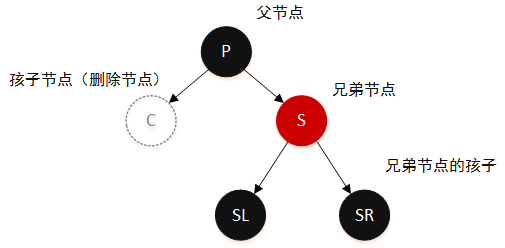
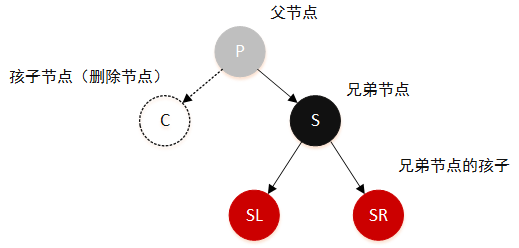
Post black_red_tree_summary

diff --git a/css/kun-blog.min.css b/css/kun-blog.min.css
@@ -1,1 +1,1 @@
-body{font-family:-apple-system,"Helvetica Neue",Arial,"PingFang SC","Hiragino Sans GB",STHeiti,"Microsoft YaHei","Microsoft JhengHei","Source Han Sans SC","Noto Sans CJK SC","Source Han Sans CN","Noto Sans SC","Source Han Sans TC","Noto Sans CJK TC","WenQuanYi Micro Hei",SimSun,sans-serif;line-height:1.7;font-size:16px;color:#404040;overflow-x:hidden}p{margin:15px 0}h1,h2,h3,h4,h5,h6{font-family:-apple-system,"Helvetica Neue",Arial,"PingFang SC","Hiragino Sans GB",STHeiti,"Microsoft YaHei","Microsoft JhengHei","Source Han Sans SC","Noto Sans CJK SC","Source Han Sans CN","Noto Sans SC","Source Han Sans TC","Noto Sans CJK TC","WenQuanYi Micro Hei",SimSun,sans-serif;line-height:1.7;line-height:1.1;font-weight:700}h3{font-size:21px}h4{font-size:18px}a{color:#404040}a:focus,a:hover{color:#0085a1}a img:focus,a img:hover{cursor:zoom-in}article{overflow-x:hidden}blockquote{color:grey;font-style:italic;font-size:.95em;margin:20px 0 20px}blockquote p{margin:0}small.img-hint{display:block;margin-top:-20px;text-align:center}br+small.img-hint{margin-top:-40px}img.shadow{box-shadow:rgba(0,0,0,.258824) 0 2px 5px 0}select{-webkit-appearance:none;margin-top:15px;color:#337ab7;border-color:#337ab7;padding:0 .4em;background:#fff}select.sel-lang{min-height:28px;font-size:14px}.table td,.table th{border:1px solid #eee!important}hr.small{max-width:100px;margin:15px auto;border-width:4px;border-color:#fff}.table-responsive,pre{-webkit-overflow-scrolling:touch}pre code{display:block;width:auto;white-space:pre;word-wrap:normal}.postlist-container{margin-bottom:15px}.post-container a{color:#337ab7}.post-container a:focus,.post-container a:hover{color:#0085a1}.post-container h1,.post-container h2,.post-container h3,.post-container h4,.post-container h5,.post-container h6{margin:30px 0 10px}.post-container h5{font-size:19px;font-weight:600;color:gray}.post-container h5+p{margin-top:5px}.post-container h6{font-size:16px;font-weight:600;color:gray}.post-container h6+p{margin-top:5px}@media screen and (max-width:768px){.post-container ol,.post-container ul{padding-left:30px}}@media screen and (max-width:500px){.post-container ol,.post-container ul{padding-left:20px}}.post-container ol ol,.post-container ol ul,.post-container ul ol,.post-container ul ul{margin-bottom:5px}.post-container li p{margin:0;margin-bottom:5px}.post-container li h1,.post-container li h2,.post-container li h3,.post-container li h4,.post-container li h5,.post-container li h6{line-height:2;margin-top:20px}.post-container .pager li{width:48%}.post-container .pager li.next{float:right}.post-container .pager li.previous{float:left}.post-container .pager li>a{width:100%}.post-container .pager li>a>span{color:grey;font-weight:400;letter-spacing:.5px}.post-container img{display:block;max-width:100%;height:auto;margin:1.5em auto 1.6em auto}@media (min-width:1200px){.post-container,.sidebar-container{padding-right:5%}}@media (min-width:768px){.post-container{padding-right:5%}}.sidebar-container{color:#bfbfbf;font-size:14px}.sidebar-container a{color:#bfbfbf!important}.sidebar-container a:active,.sidebar-container a:hover{color:#0085a1!important}.sidebar-intro{margin-top:30px}.sidebar-intro .tags a{border-color:#bfbfbf}.sidebar-intro .tags a:active,.sidebar-intro .tags a:hover{border-color:#0085a1!important}.sidebar-intro .short-about{margin-top:0;margin-bottom:20px}.sidebar-intro .short-about img{margin-top:20px;margin-left:50px;border-radius:80px;height:120px;width:120px}.sidebar-catalog .catalog-icon{width:16px;height:16px;display:inline-block;vertical-align:middle}.sidebar-catalog .catalog-title{color:#a3a3a3;padding-bottom:1em}.sidebar-catalog{padding:0;display:block;overflow:auto;height:100%;padding-bottom:40px;width:200px}.sidebar-catalog.fixed{position:fixed;top:-21px}.sidebar-catalog .catalog-body{position:relative;list-style:none;height:auto;overflow:hidden;padding-left:0;padding-right:5px;text-indent:0}.sidebar-catalog .catalog-body li{position:relative;list-style:none}.sidebar-catalog .catalog-body li a{padding-left:10px;max-width:180px;vertical-align:middle;height:30px;line-height:30px;overflow:hidden;text-decoration:none;white-space:nowrap;text-overflow:ellipsis}.sidebar-catalog .catalog-body .h1_nav,.sidebar-catalog .catalog-body .h2_nav{margin-left:0;font-size:14px;font-weight:700}.sidebar-catalog .catalog-body .h3_nav{margin-left:10px;font-size:12px;font-weight:700}.sidebar-catalog .catalog-body .h4_nav,.sidebar-catalog .catalog-body .h5_nav,.sidebar-catalog .catalog-body .h6_nav{margin-left:20px;font-size:12px}.sidebar-catalog .catalog-body .h4_nav a,.sidebar-catalog .catalog-body .h5_nav a,.sidebar-catalog .catalog-body .h6_nav a{max-width:170px}.sidebar-catalog .catalog-body .active{border-radius:4px;background-color:#f5f5f5}.sidebar-catalog .catalog-body .active a{color:#0085a1!important}@media (max-width:1200px){.sidebar-catalog{display:none}}@media only screen and (max-width:767px){.navbar-default .navbar-collapse{position:absolute;right:0;border:none;background:#fff;box-shadow:0 5px 10px 2px rgba(0,0,0,.2);box-shadow:rgba(0,0,0,.117647) 0 1px 6px,rgba(0,0,0,.239216) 0 1px 4px;border-radius:2px;width:170px}}.navbar-custom{background:0 0;border:none;position:absolute;top:0;left:0;width:100%;z-index:3;font-family:-apple-system,"Helvetica Neue",Arial,"PingFang SC","Hiragino Sans GB",STHeiti,"Microsoft YaHei","Microsoft JhengHei","Source Han Sans SC","Noto Sans CJK SC","Source Han Sans CN","Noto Sans SC","Source Han Sans TC","Noto Sans CJK TC","WenQuanYi Micro Hei",SimSun,sans-serif;line-height:1.7}.navbar-custom .navbar-brand{font-weight:800;color:#fff;height:56px;line-height:25px}.navbar-custom .navbar-brand:hover{color:rgba(255,255,255,.8)}.navbar-custom .nav li a{text-transform:uppercase;font-size:12px;line-height:20px;font-weight:800;letter-spacing:1px}.navbar-custom .nav li a:active{background:rgba(0,0,0,.12)}@media only screen and (min-width:768px){.navbar-custom{background:0 0;border-bottom:1px solid transparent}.navbar-custom body{font-size:20px}.navbar-custom .navbar-brand{color:#fff;padding:20px;line-height:20px}.navbar-custom .navbar-brand:focus,.navbar-custom .navbar-brand:hover{color:rgba(255,255,255,.8)}.navbar-custom .nav li a{color:#fff;padding:20px}.navbar-custom .nav li a:focus,.navbar-custom .nav li a:hover{color:rgba(255,255,255,.8)}.navbar-custom .nav li a:active{background:0 0}}@media only screen and (min-width:1170px){.navbar-custom{-webkit-transition:background-color .3s;-moz-transition:background-color .3s;transition:background-color .3s;-webkit-transform:translate3d(0,0,0);-moz-transform:translate3d(0,0,0);-ms-transform:translate3d(0,0,0);-o-transform:translate3d(0,0,0);transform:translate3d(0,0,0);-webkit-backface-visibility:hidden;backface-visibility:hidden}.navbar-custom.is-fixed{position:fixed;top:-61px;background-color:rgba(255,255,255,.9);border-bottom:1px solid #f2f2f2;-webkit-transition:-webkit-transform .3s;-moz-transition:-moz-transform .3s;transition:transform .3s}.navbar-custom.is-fixed .navbar-brand{color:#404040}.navbar-custom.is-fixed .navbar-brand:focus,.navbar-custom.is-fixed .navbar-brand:hover{color:#0085a1}.navbar-custom.is-fixed .nav li a{color:#404040}.navbar-custom.is-fixed .nav li a:focus,.navbar-custom.is-fixed .nav li a:hover{color:#0085a1}.navbar-custom.is-visible{-webkit-transform:translate3d(0,100%,0);-moz-transform:translate3d(0,100%,0);-ms-transform:translate3d(0,100%,0);-o-transform:translate3d(0,100%,0);transform:translate3d(0,100%,0)}}.intro-header{background:no-repeat center center;background-color:grey;background-attachment:scroll;-webkit-background-size:cover;-moz-background-size:cover;background-size:cover;-o-background-size:cover;margin-bottom:0}@media only screen and (min-width:768px){.intro-header{margin-bottom:20px}}.intro-header .page-heading,.intro-header .post-heading,.intro-header .site-heading{padding:85px 0 55px;color:#fff}@media only screen and (min-width:768px){.intro-header .page-heading,.intro-header .post-heading,.intro-header .site-heading{padding:150px 0}}.intro-header .site-heading{padding:95px 0 70px}@media only screen and (min-width:768px){.intro-header .site-heading{padding:150px 0}}.intro-header .page-heading,.intro-header .site-heading{text-align:center}.intro-header .page-heading h1,.intro-header .site-heading h1{margin-top:0;font-size:50px}.intro-header .page-heading .subheading,.intro-header .site-heading .subheading{font-family:-apple-system,"Helvetica Neue",Arial,"PingFang SC","Hiragino Sans GB",STHeiti,"Microsoft YaHei","Microsoft JhengHei","Source Han Sans SC","Noto Sans CJK SC","Source Han Sans CN","Noto Sans SC","Source Han Sans TC","Noto Sans CJK TC","WenQuanYi Micro Hei",SimSun,sans-serif;line-height:1.7;font-size:20px;line-height:1.1;display:block;font-weight:300;margin:1px 0 0}.intro-header .post-heading h1{font-size:30px;margin-bottom:24px}.intro-header .post-heading .meta,.intro-header .post-heading .subheading{line-height:1.1;display:block}.intro-header .post-heading .subheading{font-family:-apple-system,"Helvetica Neue",Arial,"PingFang SC","Hiragino Sans GB",STHeiti,"Microsoft YaHei","Microsoft JhengHei","Source Han Sans SC","Noto Sans CJK SC","Source Han Sans CN","Noto Sans SC","Source Han Sans TC","Noto Sans CJK TC","WenQuanYi Micro Hei",SimSun,sans-serif;line-height:1.7;font-size:16px;line-height:1.4;font-weight:400;margin:10px 0 30px;margin-top:-5px}.intro-header .post-heading .meta{font-family:Lora,'Times New Roman',serif;font-style:italic;font-weight:300;font-size:18px}.intro-header .post-heading .meta a{color:#fff}@media only screen and (min-width:768px){.intro-header .page-heading h1,.intro-header .site-heading h1{font-size:80px}}@media only screen and (min-width:768px){.intro-header .post-heading h1{font-size:55px}.intro-header .post-heading .subheading{font-size:30px}.intro-header .post-heading .meta{font-size:20px}}.post-preview>a{color:#404040}.post-preview>a:focus,.post-preview>a:hover{text-decoration:none;color:#0085a1}.post-preview>a>.post-title{font-size:21px;line-height:1.3;margin-top:30px;margin-bottom:8px}.post-preview>a>.post-subtitle{font-size:15px;line-height:1.3;margin:0;font-weight:300;margin-bottom:10px}.post-preview>.post-meta{font-family:Lora,'Times New Roman',serif;color:grey;font-size:16px;font-style:italic;margin-top:0}.post-preview>.post-meta>a{text-decoration:none;color:#404040}.post-preview>.post-meta>a:focus,.post-preview>.post-meta>a:hover{color:#0085a1;text-decoration:underline}@media only screen and (min-width:768px){.post-preview>a>.post-title{font-size:26px;line-height:1.3;margin-bottom:10px}.post-preview>a>.post-subtitle{font-size:16px}.post-preview .post-meta{font-size:18px}}.post-content-preview{font-size:13px;color:#a3a3a3}.post-content-preview:hover{color:#0085a1}@media only screen and (min-width:768px){.post-content-preview{font-size:14px}}.section-heading{font-size:36px;margin-top:60px;font-weight:700}.caption{text-align:center;font-size:14px;padding:10px;font-style:italic;margin:0;display:block;border-bottom-right-radius:5px;border-bottom-left-radius:5px}footer{font-size:20px;padding:50px 0 65px}footer .sns-links-container{text-align:center}footer .list-inline{margin:0;padding:0}footer .copyright{font-size:14px;text-align:center;margin-bottom:0}footer .copyright a{color:#337ab7}footer .copyright a:focus,footer .copyright a:hover{color:#0085a1}.floating-label-form-group{font-size:14px;position:relative;margin-bottom:0;padding-bottom:.5em;border-bottom:1px solid #eee}.floating-label-form-group input,.floating-label-form-group textarea{z-index:1;position:relative;padding-right:0;padding-left:0;border:none;border-radius:0;font-size:1.5em;background:0 0;box-shadow:none!important;resize:none}.floating-label-form-group label{display:block;z-index:0;position:relative;top:2em;margin:0;font-size:.85em;line-height:1.764705882em;vertical-align:middle;vertical-align:baseline;opacity:0;-webkit-transition:top .3s ease,opacity .3s ease;-moz-transition:top .3s ease,opacity .3s ease;-ms-transition:top .3s ease,opacity .3s ease;transition:top .3s ease,opacity .3s ease}.floating-label-form-group::not(:first-child){padding-left:14px;border-left:1px solid #eee}.floating-label-form-group-with-value label{top:0;opacity:1}.floating-label-form-group-with-focus label{color:#0085a1}form .row:first-child .floating-label-form-group{border-top:1px solid #eee}.btn{font-family:-apple-system,"Helvetica Neue",Arial,"PingFang SC","Hiragino Sans GB",STHeiti,"Microsoft YaHei","Microsoft JhengHei","Source Han Sans SC","Noto Sans CJK SC","Source Han Sans CN","Noto Sans SC","Source Han Sans TC","Noto Sans CJK TC","WenQuanYi Micro Hei",SimSun,sans-serif;line-height:1.7;text-transform:uppercase;font-size:14px;font-weight:800;letter-spacing:1px;border-radius:0;padding:15px 25px}.btn-lg{font-size:16px;padding:25px 35px}.btn-default:focus,.btn-default:hover{background-color:#0085a1;border:1px solid #0085a1;color:#fff}.pager{margin:20px 0 0!important;padding:0!important}.pager li>a,.pager li>span{font-family:-apple-system,"Helvetica Neue",Arial,"PingFang SC","Hiragino Sans GB",STHeiti,"Microsoft YaHei","Microsoft JhengHei","Source Han Sans SC","Noto Sans CJK SC","Source Han Sans CN","Noto Sans SC","Source Han Sans TC","Noto Sans CJK TC","WenQuanYi Micro Hei",SimSun,sans-serif;line-height:1.7;text-transform:uppercase;font-size:13px;font-weight:800;letter-spacing:1px;padding:10px;background-color:#fff;border-radius:0}@media only screen and (min-width:768px){.pager li>a,.pager li>span{font-size:14px;padding:15px 25px}}.pager li>a{color:#404040}.pager li>a:focus,.pager li>a:hover{color:#fff;background-color:#0085a1;border:1px solid #0085a1}.pager li>a:focus>span,.pager li>a:hover>span{color:#fff}.pager .disabled>a,.pager .disabled>a:focus,.pager .disabled>a:hover,.pager .disabled>span{color:grey;background-color:#404040;cursor:not-allowed}::-moz-selection{color:#fff;text-shadow:none;background:#0085a1}::selection{color:#fff;text-shadow:none;background:#0085a1}img::selection{color:#fff;background:0 0}img::-moz-selection{color:#fff;background:0 0}.tags{margin-bottom:-5px}.tags .tag,.tags a{display:inline-block;border:1px solid rgba(255,255,255,.8);border-radius:999em;padding:0 10px;color:#fff;line-height:24px;font-size:12px;text-decoration:none;margin:0 1px;margin-bottom:6px}.tags .tag:active,.tags .tag:hover,.tags a:active,.tags a:hover{color:#fff;background-color:rgba(255,255,255,.4);text-decoration:none}@media only screen and (min-width:768px){.tags .tag,.tags a{margin-right:5px}}.t:first-child{margin-top:0}.listing-seperator{color:#0085a1;font-size:21px!important}.listing-seperator::before{margin-right:5px}@media only screen and (min-width:768px){.listing-seperator{font-size:20px!important;line-height:2!important}}.one-tag-list .tag-text{font-weight:200;font-family:-apple-system,"Helvetica Neue",Arial,"PingFang SC","Hiragino Sans GB",STHeiti,"Microsoft YaHei","Microsoft JhengHei","Source Han Sans SC","Noto Sans CJK SC","Source Han Sans CN","Noto Sans SC","Source Han Sans TC","Noto Sans CJK TC","WenQuanYi Micro Hei",SimSun,sans-serif;line-height:1.7}.one-tag-list .post-preview{position:relative}.one-tag-list .post-preview>a .post-title{font-size:16px;font-weight:500;margin-top:20px}.one-tag-list .post-preview>a .post-subtitle{font-size:12px}.one-tag-list .post-preview>.post-meta{position:absolute;right:5px;bottom:0;margin:0;font-size:12px;line-height:12px}@media only screen and (min-width:768px){.one-tag-list .post-preview{margin-left:20px}.one-tag-list .post-preview>a>.post-title{font-size:18px;line-height:1.3}.one-tag-list .post-preview>a>.post-subtitle{font-size:14px}.one-tag-list .post-preview .post-meta{font-size:18px}}.navbar-default .navbar-toggle:focus,.navbar-default .navbar-toggle:hover{background-color:inherit}.navbar-default .navbar-toggle:active{background-color:rgba(255,255,255,.25)}.navbar-default .navbar-toggle{border-color:transparent;padding:19px 16px;margin-top:2px;margin-right:2px;margin-bottom:2px;border-radius:50%}.navbar-default .navbar-toggle .icon-bar{width:18px;border-radius:0;background-color:#fff}.navbar-default .navbar-toggle .icon-bar+.icon-bar{margin-top:3px}.page-fullscreen .intro-header{position:fixed;left:0;top:0;width:100%;height:100%}.page-fullscreen footer{position:absolute;width:100%;bottom:0;padding-bottom:20px;opacity:.6;color:#fff}.page-fullscreen footer .copyright{color:#fff}.page-fullscreen footer .copyright a{color:#fff}.page-fullscreen footer .copyright a:hover{color:#ddd}.cc-license-container img{margin:1.5em 0 .2em 0}
+body{font-family:-apple-system,"Helvetica Neue",Arial,"PingFang SC","Hiragino Sans GB",STHeiti,"Microsoft YaHei","Microsoft JhengHei","Source Han Sans SC","Noto Sans CJK SC","Source Han Sans CN","Noto Sans SC","Source Han Sans TC","Noto Sans CJK TC","WenQuanYi Micro Hei",SimSun,sans-serif;line-height:1.7;font-size:16px;color:#404040;overflow-x:hidden}p{margin:15px 0}h1,h2,h3,h4,h5,h6{font-family:-apple-system,"Helvetica Neue",Arial,"PingFang SC","Hiragino Sans GB",STHeiti,"Microsoft YaHei","Microsoft JhengHei","Source Han Sans SC","Noto Sans CJK SC","Source Han Sans CN","Noto Sans SC","Source Han Sans TC","Noto Sans CJK TC","WenQuanYi Micro Hei",SimSun,sans-serif;line-height:1.7;line-height:1.1;font-weight:700}h3{font-size:21px}h4{font-size:18px}a{color:#404040}a:focus,a:hover{color:#0085a1}a img:focus,a img:hover{cursor:zoom-in}article{overflow-x:hidden}blockquote{color:grey;font-style:italic;font-size:.95em;margin:20px 0 20px}blockquote p{margin:0}small.img-hint{display:block;margin-top:-20px;text-align:center}br+small.img-hint{margin-top:-40px}img.shadow{box-shadow:rgba(0,0,0,.258824) 0 2px 5px 0}select{-webkit-appearance:none;margin-top:15px;color:#337ab7;border-color:#337ab7;padding:0 .4em;background:#fff}select.sel-lang{min-height:28px;font-size:14px}.table td,.table th{border:1px solid #eee!important}hr.small{max-width:100px;margin:15px auto;border-width:4px;border-color:#fff}.table-responsive,pre{-webkit-overflow-scrolling:touch}code{color:#404040;background-color:#f2f2f2}pre code{display:block;width:auto;white-space:pre;word-wrap:normal}.postlist-container{margin-bottom:15px}.post-container a{color:#337ab7}.post-container a:focus,.post-container a:hover{color:#0085a1}.post-container h1,.post-container h2,.post-container h3,.post-container h4,.post-container h5,.post-container h6{margin:30px 0 10px}.post-container h5{font-size:19px;font-weight:600;color:gray}.post-container h5+p{margin-top:5px}.post-container h6{font-size:16px;font-weight:600;color:gray}.post-container h6+p{margin-top:5px}@media screen and (max-width:768px){.post-container ol,.post-container ul{padding-left:30px}}@media screen and (max-width:500px){.post-container ol,.post-container ul{padding-left:20px}}.post-container ol ol,.post-container ol ul,.post-container ul ol,.post-container ul ul{margin-bottom:5px}.post-container li p{margin:0;margin-bottom:5px}.post-container li h1,.post-container li h2,.post-container li h3,.post-container li h4,.post-container li h5,.post-container li h6{line-height:2;margin-top:20px}.post-container .pager li{width:48%}.post-container .pager li.next{float:right}.post-container .pager li.previous{float:left}.post-container .pager li>a{width:100%}.post-container .pager li>a>span{color:grey;font-weight:400;letter-spacing:.5px}.post-container img{display:block;max-width:100%;height:auto;margin:1.5em auto 1.6em auto}@media (min-width:1200px){.post-container,.sidebar-container{padding-right:5%}}@media (min-width:768px){.post-container{padding-right:5%}}.sidebar-container{color:#bfbfbf;font-size:14px}.sidebar-container a{color:#bfbfbf!important}.sidebar-container a:active,.sidebar-container a:hover{color:#0085a1!important}.sidebar-intro{margin-top:30px}.sidebar-intro .tags a{border-color:#bfbfbf}.sidebar-intro .tags a:active,.sidebar-intro .tags a:hover{border-color:#0085a1!important}.sidebar-intro .short-about{margin-top:0;margin-bottom:20px}.sidebar-intro .short-about img{margin-top:20px;margin-left:50px;border-radius:80px;height:120px;width:120px}.sidebar-catalog .catalog-icon{width:16px;height:16px;display:inline-block;vertical-align:middle}.sidebar-catalog .catalog-title{color:#a3a3a3;padding-bottom:1em}.sidebar-catalog{padding:0;display:block;overflow:auto;height:100%;padding-bottom:40px;width:200px}.sidebar-catalog.fixed{position:fixed;top:-21px}.sidebar-catalog .catalog-body{position:relative;list-style:none;height:auto;overflow:hidden;padding-left:0;padding-right:5px;text-indent:0}.sidebar-catalog .catalog-body li{position:relative;list-style:none}.sidebar-catalog .catalog-body li a{padding-left:10px;max-width:180px;vertical-align:middle;height:30px;line-height:30px;overflow:hidden;text-decoration:none;white-space:nowrap;text-overflow:ellipsis}.sidebar-catalog .catalog-body .h1_nav,.sidebar-catalog .catalog-body .h2_nav{margin-left:0;font-size:14px;font-weight:700}.sidebar-catalog .catalog-body .h3_nav{margin-left:10px;font-size:12px;font-weight:700}.sidebar-catalog .catalog-body .h4_nav,.sidebar-catalog .catalog-body .h5_nav,.sidebar-catalog .catalog-body .h6_nav{margin-left:20px;font-size:12px}.sidebar-catalog .catalog-body .h4_nav a,.sidebar-catalog .catalog-body .h5_nav a,.sidebar-catalog .catalog-body .h6_nav a{max-width:170px}.sidebar-catalog .catalog-body .active{border-radius:4px;background-color:#f5f5f5}.sidebar-catalog .catalog-body .active a{color:#0085a1!important}@media (max-width:1200px){.sidebar-catalog{display:none}}@media only screen and (max-width:767px){.navbar-default .navbar-collapse{position:absolute;right:0;border:none;background:#fff;box-shadow:0 5px 10px 2px rgba(0,0,0,.2);box-shadow:rgba(0,0,0,.117647) 0 1px 6px,rgba(0,0,0,.239216) 0 1px 4px;border-radius:2px;width:170px}}.navbar-custom{background:0 0;border:none;position:absolute;top:0;left:0;width:100%;z-index:3;font-family:-apple-system,"Helvetica Neue",Arial,"PingFang SC","Hiragino Sans GB",STHeiti,"Microsoft YaHei","Microsoft JhengHei","Source Han Sans SC","Noto Sans CJK SC","Source Han Sans CN","Noto Sans SC","Source Han Sans TC","Noto Sans CJK TC","WenQuanYi Micro Hei",SimSun,sans-serif;line-height:1.7}.navbar-custom .navbar-brand{font-weight:800;color:#fff;height:56px;line-height:25px}.navbar-custom .navbar-brand:hover{color:rgba(255,255,255,.8)}.navbar-custom .nav li a{text-transform:uppercase;font-size:12px;line-height:20px;font-weight:800;letter-spacing:1px}.navbar-custom .nav li a:active{background:rgba(0,0,0,.12)}@media only screen and (min-width:768px){.navbar-custom{background:0 0;border-bottom:1px solid transparent}.navbar-custom body{font-size:20px}.navbar-custom .navbar-brand{color:#fff;padding:20px;line-height:20px}.navbar-custom .navbar-brand:focus,.navbar-custom .navbar-brand:hover{color:rgba(255,255,255,.8)}.navbar-custom .nav li a{color:#fff;padding:20px}.navbar-custom .nav li a:focus,.navbar-custom .nav li a:hover{color:rgba(255,255,255,.8)}.navbar-custom .nav li a:active{background:0 0}}@media only screen and (min-width:1170px){.navbar-custom{-webkit-transition:background-color .3s;-moz-transition:background-color .3s;transition:background-color .3s;-webkit-transform:translate3d(0,0,0);-moz-transform:translate3d(0,0,0);-ms-transform:translate3d(0,0,0);-o-transform:translate3d(0,0,0);transform:translate3d(0,0,0);-webkit-backface-visibility:hidden;backface-visibility:hidden}.navbar-custom.is-fixed{position:fixed;top:-61px;background-color:rgba(255,255,255,.9);border-bottom:1px solid #f2f2f2;-webkit-transition:-webkit-transform .3s;-moz-transition:-moz-transform .3s;transition:transform .3s}.navbar-custom.is-fixed .navbar-brand{color:#404040}.navbar-custom.is-fixed .navbar-brand:focus,.navbar-custom.is-fixed .navbar-brand:hover{color:#0085a1}.navbar-custom.is-fixed .nav li a{color:#404040}.navbar-custom.is-fixed .nav li a:focus,.navbar-custom.is-fixed .nav li a:hover{color:#0085a1}.navbar-custom.is-visible{-webkit-transform:translate3d(0,100%,0);-moz-transform:translate3d(0,100%,0);-ms-transform:translate3d(0,100%,0);-o-transform:translate3d(0,100%,0);transform:translate3d(0,100%,0)}}.intro-header{background:no-repeat center center;background-color:grey;background-attachment:scroll;-webkit-background-size:cover;-moz-background-size:cover;background-size:cover;-o-background-size:cover;margin-bottom:0}@media only screen and (min-width:768px){.intro-header{margin-bottom:20px}}.intro-header .page-heading,.intro-header .post-heading,.intro-header .site-heading{padding:85px 0 55px;color:#fff}@media only screen and (min-width:768px){.intro-header .page-heading,.intro-header .post-heading,.intro-header .site-heading{padding:150px 0}}.intro-header .site-heading{padding:95px 0 70px}@media only screen and (min-width:768px){.intro-header .site-heading{padding:150px 0}}.intro-header .page-heading,.intro-header .site-heading{text-align:center}.intro-header .page-heading h1,.intro-header .site-heading h1{margin-top:0;font-size:50px}.intro-header .page-heading .subheading,.intro-header .site-heading .subheading{font-family:-apple-system,"Helvetica Neue",Arial,"PingFang SC","Hiragino Sans GB",STHeiti,"Microsoft YaHei","Microsoft JhengHei","Source Han Sans SC","Noto Sans CJK SC","Source Han Sans CN","Noto Sans SC","Source Han Sans TC","Noto Sans CJK TC","WenQuanYi Micro Hei",SimSun,sans-serif;line-height:1.7;font-size:20px;line-height:1.1;display:block;font-weight:300;margin:1px 0 0}.intro-header .post-heading h1{font-size:30px;margin-bottom:24px}.intro-header .post-heading .meta,.intro-header .post-heading .subheading{line-height:1.1;display:block}.intro-header .post-heading .subheading{font-family:-apple-system,"Helvetica Neue",Arial,"PingFang SC","Hiragino Sans GB",STHeiti,"Microsoft YaHei","Microsoft JhengHei","Source Han Sans SC","Noto Sans CJK SC","Source Han Sans CN","Noto Sans SC","Source Han Sans TC","Noto Sans CJK TC","WenQuanYi Micro Hei",SimSun,sans-serif;line-height:1.7;font-size:16px;line-height:1.4;font-weight:400;margin:10px 0 30px;margin-top:-5px}.intro-header .post-heading .meta{font-family:Lora,'Times New Roman',serif;font-style:italic;font-weight:300;font-size:18px}.intro-header .post-heading .meta a{color:#fff}@media only screen and (min-width:768px){.intro-header .page-heading h1,.intro-header .site-heading h1{font-size:80px}}@media only screen and (min-width:768px){.intro-header .post-heading h1{font-size:55px}.intro-header .post-heading .subheading{font-size:30px}.intro-header .post-heading .meta{font-size:20px}}.post-preview>a{color:#404040}.post-preview>a:focus,.post-preview>a:hover{text-decoration:none;color:#0085a1}.post-preview>a>.post-title{font-size:21px;line-height:1.3;margin-top:30px;margin-bottom:8px}.post-preview>a>.post-subtitle{font-size:15px;line-height:1.3;margin:0;font-weight:300;margin-bottom:10px}.post-preview>.post-meta{font-family:Lora,'Times New Roman',serif;color:grey;font-size:16px;font-style:italic;margin-top:0}.post-preview>.post-meta>a{text-decoration:none;color:#404040}.post-preview>.post-meta>a:focus,.post-preview>.post-meta>a:hover{color:#0085a1;text-decoration:underline}@media only screen and (min-width:768px){.post-preview>a>.post-title{font-size:26px;line-height:1.3;margin-bottom:10px}.post-preview>a>.post-subtitle{font-size:16px}.post-preview .post-meta{font-size:18px}}.post-content-preview{font-size:13px;color:#a3a3a3}.post-content-preview:hover{color:#0085a1}@media only screen and (min-width:768px){.post-content-preview{font-size:14px}}.section-heading{font-size:36px;margin-top:60px;font-weight:700}.caption{text-align:center;font-size:14px;padding:10px;font-style:italic;margin:0;display:block;border-bottom-right-radius:5px;border-bottom-left-radius:5px}footer{font-size:20px;padding:50px 0 65px}footer .sns-links-container{text-align:center}footer .list-inline{margin:0;padding:0}footer .copyright{font-size:14px;text-align:center;margin-bottom:0}footer .copyright a{color:#337ab7}footer .copyright a:focus,footer .copyright a:hover{color:#0085a1}.floating-label-form-group{font-size:14px;position:relative;margin-bottom:0;padding-bottom:.5em;border-bottom:1px solid #eee}.floating-label-form-group input,.floating-label-form-group textarea{z-index:1;position:relative;padding-right:0;padding-left:0;border:none;border-radius:0;font-size:1.5em;background:0 0;box-shadow:none!important;resize:none}.floating-label-form-group label{display:block;z-index:0;position:relative;top:2em;margin:0;font-size:.85em;line-height:1.764705882em;vertical-align:middle;vertical-align:baseline;opacity:0;-webkit-transition:top .3s ease,opacity .3s ease;-moz-transition:top .3s ease,opacity .3s ease;-ms-transition:top .3s ease,opacity .3s ease;transition:top .3s ease,opacity .3s ease}.floating-label-form-group::not(:first-child){padding-left:14px;border-left:1px solid #eee}.floating-label-form-group-with-value label{top:0;opacity:1}.floating-label-form-group-with-focus label{color:#0085a1}form .row:first-child .floating-label-form-group{border-top:1px solid #eee}.btn{font-family:-apple-system,"Helvetica Neue",Arial,"PingFang SC","Hiragino Sans GB",STHeiti,"Microsoft YaHei","Microsoft JhengHei","Source Han Sans SC","Noto Sans CJK SC","Source Han Sans CN","Noto Sans SC","Source Han Sans TC","Noto Sans CJK TC","WenQuanYi Micro Hei",SimSun,sans-serif;line-height:1.7;text-transform:uppercase;font-size:14px;font-weight:800;letter-spacing:1px;border-radius:0;padding:15px 25px}.btn-lg{font-size:16px;padding:25px 35px}.btn-default:focus,.btn-default:hover{background-color:#0085a1;border:1px solid #0085a1;color:#fff}.pager{margin:20px 0 0!important;padding:0!important}.pager li>a,.pager li>span{font-family:-apple-system,"Helvetica Neue",Arial,"PingFang SC","Hiragino Sans GB",STHeiti,"Microsoft YaHei","Microsoft JhengHei","Source Han Sans SC","Noto Sans CJK SC","Source Han Sans CN","Noto Sans SC","Source Han Sans TC","Noto Sans CJK TC","WenQuanYi Micro Hei",SimSun,sans-serif;line-height:1.7;text-transform:uppercase;font-size:13px;font-weight:800;letter-spacing:1px;padding:10px;background-color:#fff;border-radius:0}@media only screen and (min-width:768px){.pager li>a,.pager li>span{font-size:14px;padding:15px 25px}}.pager li>a{color:#404040}.pager li>a:focus,.pager li>a:hover{color:#fff;background-color:#0085a1;border:1px solid #0085a1}.pager li>a:focus>span,.pager li>a:hover>span{color:#fff}.pager .disabled>a,.pager .disabled>a:focus,.pager .disabled>a:hover,.pager .disabled>span{color:grey;background-color:#404040;cursor:not-allowed}::-moz-selection{color:#fff;text-shadow:none;background:#0085a1}::selection{color:#fff;text-shadow:none;background:#0085a1}img::selection{color:#fff;background:0 0}img::-moz-selection{color:#fff;background:0 0}.tags{margin-bottom:-5px}.tags .tag,.tags a{display:inline-block;border:1px solid rgba(255,255,255,.8);border-radius:999em;padding:0 10px;color:#fff;line-height:24px;font-size:12px;text-decoration:none;margin:0 1px;margin-bottom:6px}.tags .tag:active,.tags .tag:hover,.tags a:active,.tags a:hover{color:#fff;background-color:rgba(255,255,255,.4);text-decoration:none}@media only screen and (min-width:768px){.tags .tag,.tags a{margin-right:5px}}.t:first-child{margin-top:0}.listing-seperator{color:#0085a1;font-size:21px!important}.listing-seperator::before{margin-right:5px}@media only screen and (min-width:768px){.listing-seperator{font-size:20px!important;line-height:2!important}}.one-tag-list .tag-text{font-weight:200;font-family:-apple-system,"Helvetica Neue",Arial,"PingFang SC","Hiragino Sans GB",STHeiti,"Microsoft YaHei","Microsoft JhengHei","Source Han Sans SC","Noto Sans CJK SC","Source Han Sans CN","Noto Sans SC","Source Han Sans TC","Noto Sans CJK TC","WenQuanYi Micro Hei",SimSun,sans-serif;line-height:1.7}.one-tag-list .post-preview{position:relative}.one-tag-list .post-preview>a .post-title{font-size:16px;font-weight:500;margin-top:20px}.one-tag-list .post-preview>a .post-subtitle{font-size:12px}.one-tag-list .post-preview>.post-meta{position:absolute;right:5px;bottom:0;margin:0;font-size:12px;line-height:12px}@media only screen and (min-width:768px){.one-tag-list .post-preview{margin-left:20px}.one-tag-list .post-preview>a>.post-title{font-size:18px;line-height:1.3}.one-tag-list .post-preview>a>.post-subtitle{font-size:14px}.one-tag-list .post-preview .post-meta{font-size:18px}}.navbar-default .navbar-toggle:focus,.navbar-default .navbar-toggle:hover{background-color:inherit}.navbar-default .navbar-toggle:active{background-color:rgba(255,255,255,.25)}.navbar-default .navbar-toggle{border-color:transparent;padding:19px 16px;margin-top:2px;margin-right:2px;margin-bottom:2px;border-radius:50%}.navbar-default .navbar-toggle .icon-bar{width:18px;border-radius:0;background-color:#fff}.navbar-default .navbar-toggle .icon-bar+.icon-bar{margin-top:3px}.page-fullscreen .intro-header{position:fixed;left:0;top:0;width:100%;height:100%}.page-fullscreen footer{position:absolute;width:100%;bottom:0;padding-bottom:20px;opacity:.6;color:#fff}.page-fullscreen footer .copyright{color:#fff}.page-fullscreen footer .copyright a{color:#fff}.page-fullscreen footer .copyright a:hover{color:#ddd}.cc-license-container img{margin:1.5em 0 .2em 0}

diff --git a/css/kun-blog.css b/css/kun-blog.css
@@ -113,6 +113,13 @@ pre,
     -webkit-overflow-scrolling: touch;
 }
 
+/* override bootstrap code format */
+code {
+    color: #404040;
+    background-color:#f2f2f2;
+}
+
+
 pre code {
     display: block;
     width: auto;

diff --git a/_posts/2021-07-30-black_red_tree_summary.md b/_posts/2021-07-30-black_red_tree_summary.md
@@ -1,4 +1,11 @@
-# 红黑树
+---
+layout: post
+title: 红黑树
+categories: study
+tags: [数据结构, 红黑树]
+subtitle: "标准模板库中的二叉搜索树"
+comment: true
+---
 
 ## 1. 红黑树的定义
 
@@ -336,15 +343,15 @@ Node<K, V>* BRTree<K, V>::insert_balance(Node<K, V>* pp, Node<K, V>* p, Node<K, 
 }
 ```
 
-#### 2.4.3 插入与AVL树对比
+#### 2.4.3 插入总结
 
-这里再将红黑树的插入与AVL树进行一下对比，加深一下印象，如果没有学习AVL树，可以先跳过这部分，并不会有任何影响。
+这里再将红黑树的插入与 AVL 树进行一下对比，加深一下印象，如果没有学习 AVL 树，可以先跳过这部分，并不会有任何影响。
 
-首先，在寻找插入位置时，两者逻辑并没有区别。只不过由于AVL树更为严格（树高差最大为1），所以总概率来看寻找插入位置应该更快。两者的主要区别在插入后如何平衡上，但平衡上也有相应的相通之处。
+首先，在寻找插入位置时，两者逻辑并没有区别。只不过由于 AVL 树更为严格（树高差最大为 1），所以总概率来看寻找插入位置应该更快。两者的主要区别在插入后如何平衡上，但平衡上也有相应的相通之处。
 
-在平衡判断上，两者都是因为树的平衡性质被打破导致。对于AVL树，就是插入位置导致子树间高度差增加了。而红黑树则是因为红色节点相连导致，因为这种情景出现的概率相比要小，所以需要旋转次数要更少。
+在平衡判断上，两者都是因为树的平衡性质被打破导致。对于 AVL 树，就是插入位置导致子树间高度差增加了。而红黑树则是因为红色节点相连导致，因为这种情景出现的概率相比要小，所以需要旋转次数要更少。
 
-在平衡情景上，AVL树也同样存在LL，LR，RL，RR四种旋转情景，目的也是为了将一个节点从一个子树移到另一边的子树。但红黑树因为多了颜色的属性，所以会增加变色的过程，同时还多出了一个只需要变色就能够实现平衡的情景。
+在平衡情景上，AVL 树也同样存在 LL，LR，RL，RR 四种旋转情景，目的也是为了将一个节点从一个子树移到另一边的子树。但红黑树因为多了颜色的属性，所以会增加变色的过程，同时还多出了一个只需要变色就能够实现平衡的情景。
 
 ### 2.5 查找
 
@@ -387,6 +394,8 @@ Node<K, V>* BRTree<K, V>::find(Node<K, V>* p, K key)
 - `S` 兄弟节点 (Sibling)
 - `C` 孩子节点，这里就表示被删除掉的节点
 
+灰色代表颜色可以是黑色也可以是红色。
+
 相比于插入考虑的节点，这里不需要考虑祖父节点和叔叔节点，但要考虑删除节点的兄弟节点的情况。
 
 #### 2.6.1 寻找删除位置
@@ -422,7 +431,7 @@ Node<K, V>* BRTree<K, V>::remove(Node<K, V>* p, K key, bool& balance_indicator)
     if (p->key == key) {
         //1. 如果没有左右孩子，直接删除该节点
         if (p->left == nullptr && p->right == nullptr) {
-            
+
             //如果替换结点是黑结点, 才需要平衡，通过balance_indicator告诉parent节点
             if (p->color == BLACK) {
                 balance_indicator = true;
@@ -475,29 +484,298 @@ Node<K, V>* BRTree<K, V>::remove(Node<K, V>* p, K key, bool& balance_indicator)
     }
     return p;
 }
+
+//返回节点p的最左子树节点，用于找到后继节点
+template <class K, class V>
+Node<K, V>* BRTree<K, V>::find_min(Node<K, V>* p)
+{
+    if (p == nullptr)
+        return p;
+    while (p->left != nullptr) {
+        p = p->left;
+    }
+    return p;
+}
 ```
+
 这里先增加了一个`balance_indicator`，目的是用于告诉父节点是否需要进行删除后平衡操作。主要因为采用的是递归，同时也没有在节点结构中没有增加`parent`指针，所以删除节点只能通过一个`balance_indicator` 在回溯的时候告诉父节点，具体在什么情况下需要进行平衡操作和怎么平衡操作，就在下一节具体讲解。
 
 #### 2.6.2 删除后平衡
 
-删除节点后的平衡操作相比插入平衡要更为复杂，那么先考虑一下删除什么节点会导致红黑树失去平衡呢？如果删除的是红色节点，那么并不会影响到红黑树平衡，所以无需平衡操作。而如果删除的是黑色节点，那么该路径的上黑色节点将减少，红黑树的性质5就被打破了，从而不得不需要平衡操作。
+删除节点后的平衡操作相比插入平衡要更为复杂，那么先考虑一下删除什么节点会导致红黑树失去平衡呢？如果删除的是红色节点，那么并不会影响到红黑树平衡，所以无需平衡操作。而如果删除的是黑色节点，那么该路径的上黑色节点将减少，红黑树的性质 5 就被打破了，从而不得不需要平衡操作。
 
 **所以当删除节点是黑色时，就需要进行平衡操作。**
 
+下面就先给出删除节点后的各种情景，从而分析相应的平衡操作：
+
+- 情景 1： 删除节点是父结点的左孩子
+  - 情景 1.1：删除节点的兄弟节点是黑色，兄弟结点的右孩子是红色，左孩子颜色任意
+  - 情景 1.2：删除节点的兄弟节点是黑色，兄弟节点的右孩子为黑色，左孩子为红色
+  - 情景 1.3：删除节点的兄弟节点是黑色，且兄弟节点的孩子均为黑色 （包括 `NIL`节点）
+  - 情景 1.4：删除节点的兄弟节点是红色
+- 情景 2： 删除节点是父节点的右孩子
+  - 情景 2.1：删除节点的兄弟节点是黑色，兄弟结点的左孩子是红色，右孩子颜色任意
+  - 情景 2.2：删除节点的兄弟节点是黑色，兄弟节点的左孩子为黑色，右孩子为红色
+  - 情景 2.3：删除节点的兄弟节点是黑色，且兄弟节点的孩子均为黑色 （包括 `NIL`节点）
+  - 情景 2.4：删除节点的兄弟节点是红色
+
+**情景 1： 删除节点是父结点的左孩子**
+
+由于左子树就少了一个黑色节点，在这种情景下, 就需要想办法从别的地方拿一个红色节点吗，然后通过变色来弥补删除的黑色节点。
+
+根据借的方式不同可以分为四种情景讨论，其中三种情景是删除节点的兄弟节点是黑色，一种情景是兄弟节点是红色。如果兄弟节点是黑色，其父节点和孩子节点的具体颜色也无法确定，所以需要根据兄弟节点的孩子节点颜色的不同再分情况讨论。 如果兄弟节点是红色，根据性质 3，其父节点和孩子节点一定都是黑色，只会出现一种情景。
+
+**情景 1.1 删除节点的兄弟节点是黑色，兄弟结点的右孩子是红色，左孩子颜色任意**
+
+由于兄弟节点的右孩子是红色，这样就可以从右子树拿一个节点到左子树来，变成黑色，就可以完成平衡了。操作就是通过旋转和变色完成：
+
+- 将`S`的颜色设为`P`的颜色
+- 将`P`设为黑色
+- 将`SR`设为黑色
+- 对`P`进行左旋
+
+![delete-balance-1](/img/black_red_tree/delete-balance-1.png)
+
+**情景 1.2 删除节点的兄弟节点是黑色，兄弟节点的右孩子为黑色，左孩子为红色**
+
+由于兄弟节点的左孩子是红色，依然可以从右子树拿一个节点到左子树来，变成黑色来完成平衡。这里先通过旋转把左孩子移到右孩子位置，变成情景 1.1 来统一处理：
+
+- 将`S`设为红色
+- 将`SL`设为黑色
+- 对`S`进行右旋，得到情景 1.1
+- 按照情景 1.1 处理
+
+![delete-balance-2](/img/black_red_tree/delete-balance-2.png)
+
+**情景 1.3 删除节点的兄弟节点是黑色，且兄弟节点的孩子均为黑色 （包括 NIL 节点）**
+
+由于右子树中的节点都是黑色，没办法借了，那怎么办呢？干脆大家都别过了，都少一个黑色节点算了。但这样的话，子树是黑色平衡的，但相比于其他子树就少了一层黑色节点，就需要告诉其他子树，我们这里少了一个黑色节点，你们有没有办法借一个红色节点给我，不行就一起减去一层黑色。所以，在处理黑色变红色后，要将`P`作为新的被删除的节点，继续向上判断：
+
+- 将 S 设为红色
+- 把 P 作为新的删除节点
+- 继续平衡判断
+
+![delete-balance-3](/img/black_red_tree/delete-balance-3.png)
+
+你可能在想这两个黑色节点不是一定是 NIL 节点吗？作为一开始确实是的。但是由于会向上遍历，其实删除节点不一定就是删除节点，而可能是被作为删除节点的子树的根节点`P`, 所以后面不一定就是`NIL`节点了。
+
+**情景 1.4：删除节点的兄弟节点是红色**
+
+如果兄弟节点是红色，可以确定其父节点和孩子节点一定是黑色。但借兄弟节点没有借兄弟的孩子容易，因为红色的兄弟节点可能会有两个孩子（非`NIL`节点）的情况，需要再匀一个黑色孩子过来，成为了删除节点的新的兄弟节点。其左子树需要重新按照情况 1.1-1.3，对左子树判断处理：
+
+- 将 S 设为黑色
+- 将 P 设为红色
+- 对 P 进行左旋，左子树得到情景 1.1-1.3
+- 左子树按照情景 1.1-1.3 处理
+
+![delete-balance-4](/img/black_red_tree/delete-balance-4.png)
+
+**情景 2：删除节点是父节点的右孩子**
+
+对于情况是右孩子的操作完全是左孩子的镜像。
+
+**情景 2.1：删除节点的兄弟节点是黑色，兄弟结点的左孩子是红色，右孩子颜色任意**
+这里就是向左子树来拿一个红色节点过来变成黑色：
+
+- 将`S`的颜色设为`P`的颜色
+- 将`P`设为黑色
+- 将`SL`设为黑色
+- 对`P`进行右旋
+
+![delete-balance-5](/img/black_red_tree/delete-balance-5.png)
+
+**情景 2.2：删除节点的兄弟节点是黑色，兄弟节点的左孩子为黑色，右孩子为红色**
+
+同样，先通过旋转变成情景 2.1 再处理：
+
+- 将`S`设为红色
+- 将`SR`设为黑色
+- 对`S`进行左旋，得到情景 2.1
+- 按照情景 2.1 处理
+
+![delete-balance-6](/img/black_red_tree/delete-balance-6.png)
+
+**情景 2.3：删除节点的兄弟节点是黑色，且兄弟节点的孩子均为黑色 （包括 `NIL`节点）**
+
+这种情景下就是先变色，再向上询问：
+
+- 将 S 设为红色
+- 把 P 作为新的删除节点
+- 继续平衡判断
+
+![delete-balance-7](/img/black_red_tree/delete-balance-7.png)
+
+**情景 2.4：删除节点的兄弟节点是红色**
+
+变色再旋转，处理好右子树：
+
+- 将 S 设为黑色
+- 将 P 设为红色
+- 对 P 进行右旋，右子树得到情景 2.1-2.3
+- 右子树按照情景 2.1-2.3 处理
+
+![delete-balance-8](/img/black_red_tree/delete-balance-8.png)
+
+**删除后平衡的代码实现**
+
+根据以上情景分析，可以写出对应代码。
+
+```cpp
+//删除平衡
+//p: parent 父节点
+//s: sibling 兄弟节点
+template <class K, class V>
+Node<K, V>* BRTree<K, V>::remove_balance(Node<K, V>* p, Node<K, V>* s, bool& balance_indicator)
+{
+
+    //情景1：删除节点是父结点的左孩子
+    if (p->right == s) {
+        //情景1.4：删除节点的兄弟节点是红色
+        if (s->color == RED) {
+            s->color = BLACK;
+            p->color = RED;
+            p = rotate_left(p);
+            //先调用balance方法处理左子树（情景1.1-1.3）
+            if (p->left->right != nullptr) {
+                p->left = remove_balance(p->left, p->left->right, balance_indicator);
+            }
+            s = p->right;
+        }
+        //情景1.1 - 1.3：删除节点的兄弟节点是黑色
+        if (s->color == BLACK) {
+            //情景1.3：兄弟节点的孩子均为黑色(包括NIL节点)
+            if ((s->left == nullptr || s->left->color == BLACK)
+                && (s->right == nullptr || s->right->color == BLACK)) {
+                s->color = RED;
+                //p 视为新的替换节点, 不改变indicator，返回后继续删除平衡操作
+                return p;
+            } else {
+                //情景1.2：兄弟节点的右孩子为黑色，左孩子为红色
+                if ((s->right == nullptr || s->right->color == BLACK)) {
+                    s->color = RED;
+                    if (s->left != nullptr) {
+                        s->left->color = BLACK;
+                    }
+                    //转换为删除情景1.1
+                    s = rotate_right(s); //rotate之后更新新的兄弟节点
+                    //注意：这里要将新的s链接上p
+                    p->right = s;
+                }
+
+                //情景1.1：兄弟结点的右孩子是红色，左孩子颜色任意
+                s->color = p->color;
+                p->color = BLACK;
+                if (s->right != nullptr) {
+                    s->right->color = BLACK;
+                }
+                p = rotate_left(p);
+                //平衡indicator 清除
+                balance_indicator = false;
+                return p;
+            }
+        }
+    } else { //情景2： 删除节点是父节点的右孩子
+        //情景2.4：删除节点的兄弟节点是红色
+        if (s->color == RED) {
+            s->color = BLACK;
+            p->color = RED;
+            p = rotate_right(p);
+            //先调用balance方法处理左子树（情景2.1-2.3）
+            if (p->right->left != nullptr) {
+                p->right = remove_balance(p->right, p->right->left, balance_indicator);
+            }
+            s = p->left;
+        }
+        //情景2.1 - 2.3：删除节点的兄弟节点是黑色
+        if (s->color == BLACK) {
+            //情景2.3：兄弟节点的孩子均为黑色(包括NIL节点)
+            if ((s->left == nullptr || s->left->color == BLACK)
+                && (s->right == nullptr || s->right->color == BLACK)) {
+                s->color = RED;
+                //p 视为新的替换节点, 不改变indicator，返回后继续删除平衡操作
+                return p;
+            } else {
+                //情景2.2：兄弟节点的左孩子为黑色，右孩子为红色
+                if ((s->left == nullptr || s->left->color == BLACK)) {
+                    s->color = RED;
+                    if (s->right != nullptr) {
+                        s->right->color = BLACK;
+                    }
+                    //转换为情景2.1
+                    s = rotate_left(s); //rotate之后更新新的兄弟节点
+                    //注意：这里要将新的s链接上p
+                    p->left = s;
+                }
+
+                //情景2.1：兄弟结点的左孩子是红色，右孩子颜色任意
+                s->color = p->color;
+                p->color = BLACK;
+                if (s->left != nullptr) {
+                    s->left->color = BLACK;
+                }
+                p = rotate_right(p);
+                //平衡indicator 清除
+                balance_indicator = false;
+                return p;
+            }
+        }
+    }
+}
+```
+
+#### 2.6.3 删除总结
+
+从什么时候需要平衡上，对比红黑树的插入与删除：
+
+- 插入操作可能产生红色节点相邻的情景，违背了性质 3，所以当插入是红色节点才会打破平衡。
+- 删除操作可能会产生黑色节点减少，违背性质 5，所以当删除的是黑色节点才会打破平衡。
+
+从怎么进行平衡操作上，对比红黑树的插入与删除：
+
+- 插入平衡主要是看叔叔节点，看能不能帮忙匀走一个红色节点。实在不行，只能通过变色增加一层黑色节点，再向上询问。
+- 删除平衡主要看兄弟节点，问问兄弟节点的孩子们，能不能借一个红色节点过来变成黑色。实在不行，这才去掉一层黑色节点，再向上询问。
+
+对比红黑树与 AVL 树的删除平衡操作：
+
+- AVL 树的删除后平衡是与插入平衡相同的，因为违背的是同一个性质，所以调用相同的平衡操作。
+- 红黑树的删除平衡因为和插入平衡破坏的是不同的性质，所以需要不同的平衡操作来重新达到自平衡。
 
 ### 3. 最后
 
-### 3.1 完整代码和测试
+### 3.1 完整递归代码和测试
 
-#### 递归实现
+头文件：[black_red_tree_recursive.h](https://github.com/kaka2634/learn-algorithm/blob/main/black_red_tree/black_red_tree_recursive.h)
 
-#### 非递归实现
+cpp 文件：[black_red_tree_recursive.cpp](https://github.com/kaka2634/learn-algorithm/blob/main/black_red_tree/black_red_tree_recursive.cpp)
 
-#### 测试
+```
+*************************
+After inserted, tree is:
+pre order:
+30(B) 10(B) 20(R) 60(R) 40(B) 50(R) 80(B) 70(R) 90(R)
+mid order:
+10(B) 20(R) 30(B) 40(B) 50(R) 60(R) 70(R) 80(B) 90(R)
+*************************
+remove value: 80 tree balance check : 1
+remove value: 10 tree balance check : 1
+remove value: 50 tree balance check : 1
+remove value: 40 tree balance check : 1
+*************************
+After removed, tree is:
+pre order:
+30(B) 20(B) 70(R) 60(B) 90(B)
+mid order:
+20(B) 30(B) 60(B) 70(R) 90(B)
 
-直接使用 while 循环 判断条件，达到就 return，否则就更新遍历指针，再 continue
+```
 
-注意点就是 rotate 之后，树的形状已经更新，但是在调用 rotate 之前的指针，需要再次更新（比方 p 指针在 rotate 之后，已经不是 p 了，需要根据返回值更新自己）
+#### 非递归完整代码
+
+这里给出非递归的完整代码，主要区别在于增加了一个`parent`指针，使用`while`循环去遍历整个树，这一般才是会用在标准库的实现方式。因为效率要比递归方式更高。
+
+头文件：[black_red_tree.h](https://github.com/kaka2634/learn-algorithm/blob/main/black_red_tree/black_red_tree.h)
+
+cpp 文件：[black_red_tree.cpp](https://github.com/kaka2634/learn-algorithm/blob/main/black_red_tree/black_red_tree.cpp)
 
 ### 3.2 参考文档
 
